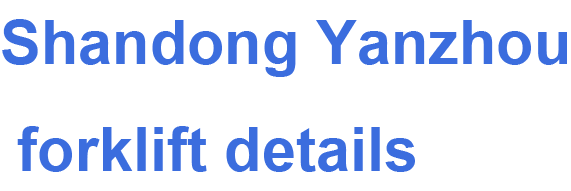
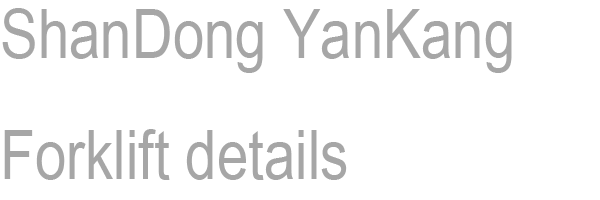
图片修改，首页字体颜色更改

Changed region(s): [[0.0, 0.0262, 1.0, 0.4188], [0.0, 0.6283, 0.7443, 0.9162]]

diff --git a/style/index.css b/style/index.css
@@ -10,7 +10,7 @@ ul, ol {
     list-style: none; }
 a {
     text-decoration: none;
-    color: #3B6DDE; 
+    color: #676767; 
     font-weight: 400;}
 .clear::after {
     content: ".";
@@ -123,23 +123,23 @@ body {
 	width: 660px;
 }
 #AGVNameE{
-	width: 400px;
+	width: 100%;
 }
 #AGVNameZ{
-	color: #3B6DDE;
-	font-size: 36px;
+	color: #676767;
+	font-size: 48px;
 	margin: 15px 0;
 }
 .AGVProfile{
 	display: inline-block;
-	color: #3B6DDE;
+	color: #676767;
 	font-size: 18px;
 	line-height: 60px;
 }
 .AGVProfiles{
 	text-indent: 2em;
-	color: #3B6DDE;
-	font-size: 24px;
+	color: #676767;
+	font-size: 18px;
 }
 #AGVMore{
 	width: 115px;
@@ -175,11 +175,11 @@ body {
 	background-repeat: no-repeat;
 }
 #ForkliftNameE{
-	width: 400px;
+	width: 100%;
 }
 #ForkliftNameZ{
 	color: #FFFFFF;
-	font-size: 36px;
+	font-size: 48px;
 	margin: 15px 0;
 }
 #ForkliftBox{
@@ -197,7 +197,7 @@ body {
 .ForkliftProfiles{
 	text-indent: 2em;
 	color: #FFFFFF;
-	font-size: 24px;
+	font-size: 18px;
 }
 #ForkliftMore{
 	width: 115px;
@@ -221,24 +221,24 @@ body {
 	color: #FFFFFF;
 }
 #ForkliftProduct{
-	width: 40%;
+	width: 37.5%;
 	position: absolute;
 	right: 5%;
-	top: 20%;
+	top: 12.5%;
 	transition: all 0.53s linear; 
 }
 #YKNameE{
-	width: 400px;
+	width: 100%;
 }
 #YKNameZ{
-	color: #3B6DDE;
-	font-size: 36px;
+	color: #676767;
+	font-size: 48px;
 	margin: 15px 0;
 }
 .YKProfile{
 	text-indent: 2em;
-	color: #3B6DDE;
-	font-size: 24px;
+	color: #676767;
+	font-size: 18px;
 }
 #YKMore{
 	width: 115px;
@@ -262,10 +262,10 @@ body {
 	color: #FFFFFF;
 }
 #YKProduct{
-	width: 40%;
+	width: 37.5%;
 	position: absolute;
 	left: 5%;
-	top: 20%;
+	top: 12.5%;
 	transition: all 0.53s linear; 
 }
 .indexBar{
@@ -373,8 +373,19 @@ body {
 		margin-left: 100px;
 		margin-top: 200px;
 	}
-	#AGVProduct, #ForkliftProduct, #YKProduct{
+	#AGVProduct{
 		width: 30%;
+		top: 25%;
+	}
+	#ForkliftProduct{
+		width: 35%;
+		top: 25%;
+		right: 2.5%;
+	}
+	#YKProduct{
+		width: 35%;
+		top: 25%;
+		left: 2.5%;
 	}
 }
 @media (max-width: 1200px) {

diff --git a/index.html b/index.html
@@ -17,7 +17,7 @@
 		<script src="js/index.js" type="text/javascript"></script>
 		<!--my css-->
 		<link rel="stylesheet" type="text/css" href="style/index.css"/>
-		</head>
+	</head>
 <body>	
 	<!-- Swiper -->
     <div class="swiper-container swiper2">
@@ -66,7 +66,7 @@
             	</div>
             	<div id="box">
             		<div id="CorporateNameZ">
-            			<img src="image/img579.png" width="100%"/>
+            			<img src="image/slogan.png" width="100%"/>
 	            	</div>
 	            	<div id="option">
 	            		<ul class="optionLeft">

diff --git a/style/AGV.css b/style/AGV.css
@@ -39,11 +39,11 @@ body {
 	margin-left: 50px;
 }
 #agv_logo{
-	width: 20%;
+	width: 25%;
 	display: block;
 	position: absolute;
 	left: 40%;
-	top: 200px; }
+	top: 100px; }
 #agv_title{
 	width: 100%;
 	height: 80px;
@@ -189,6 +189,10 @@ body {
 		width: 220px;
 		margin-left: 20px;
 		margin-top: 30px;
+	}
+	#agv_logo{
+		width: 35%;
+		left: 32.5%;
 	}
 }
 @media only screen and (max-width: 680px) {
